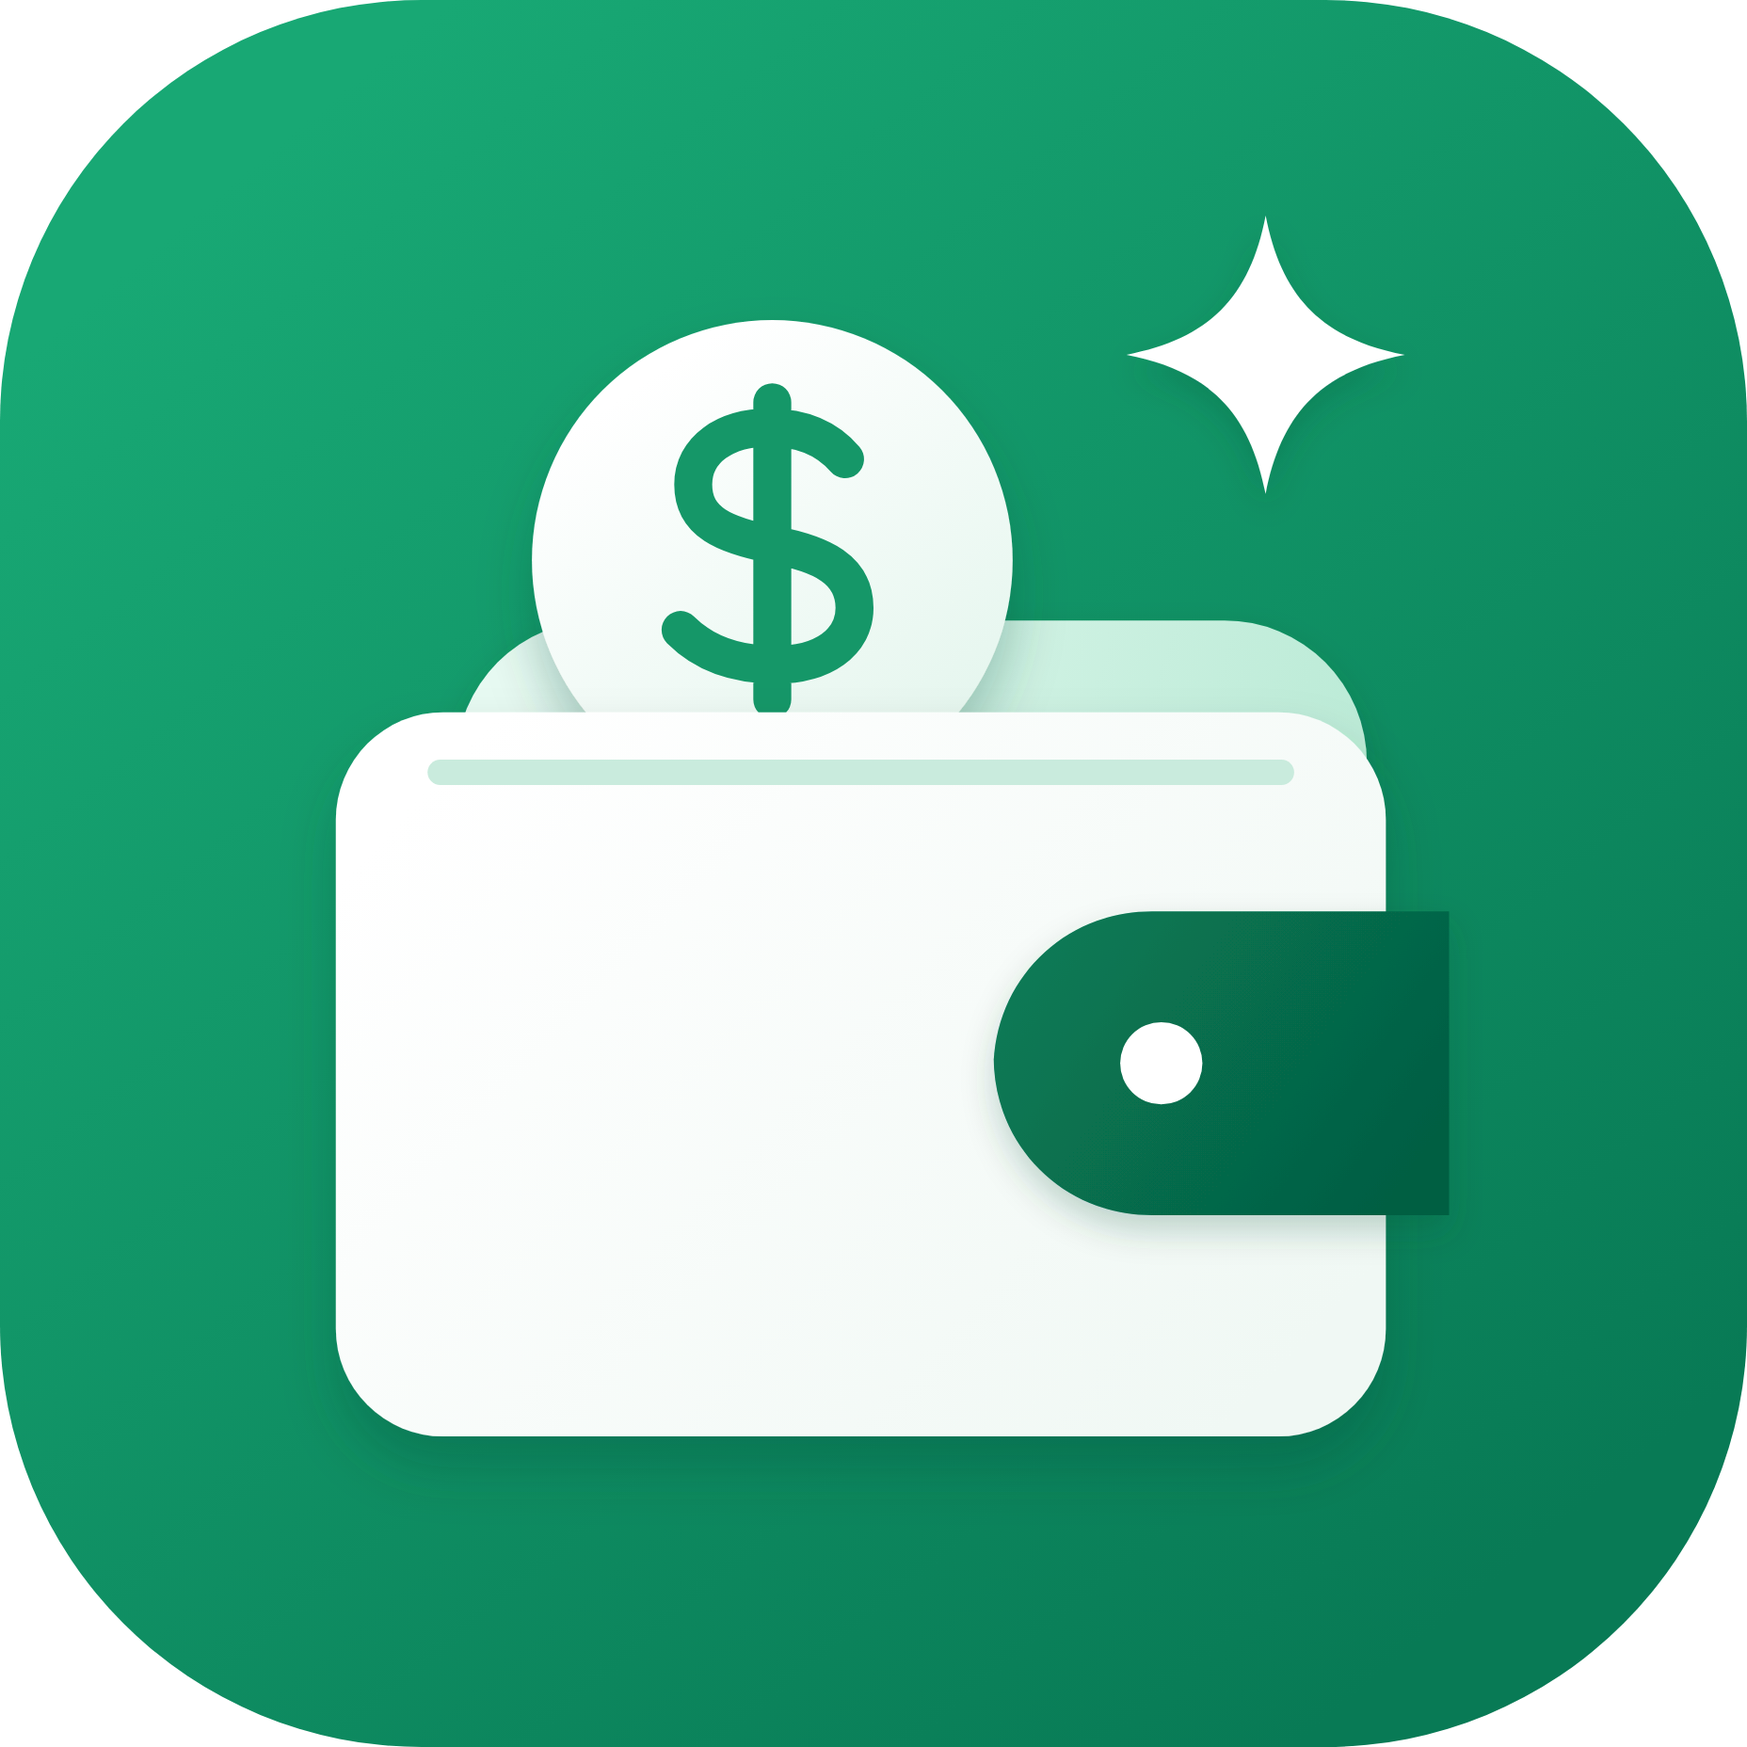
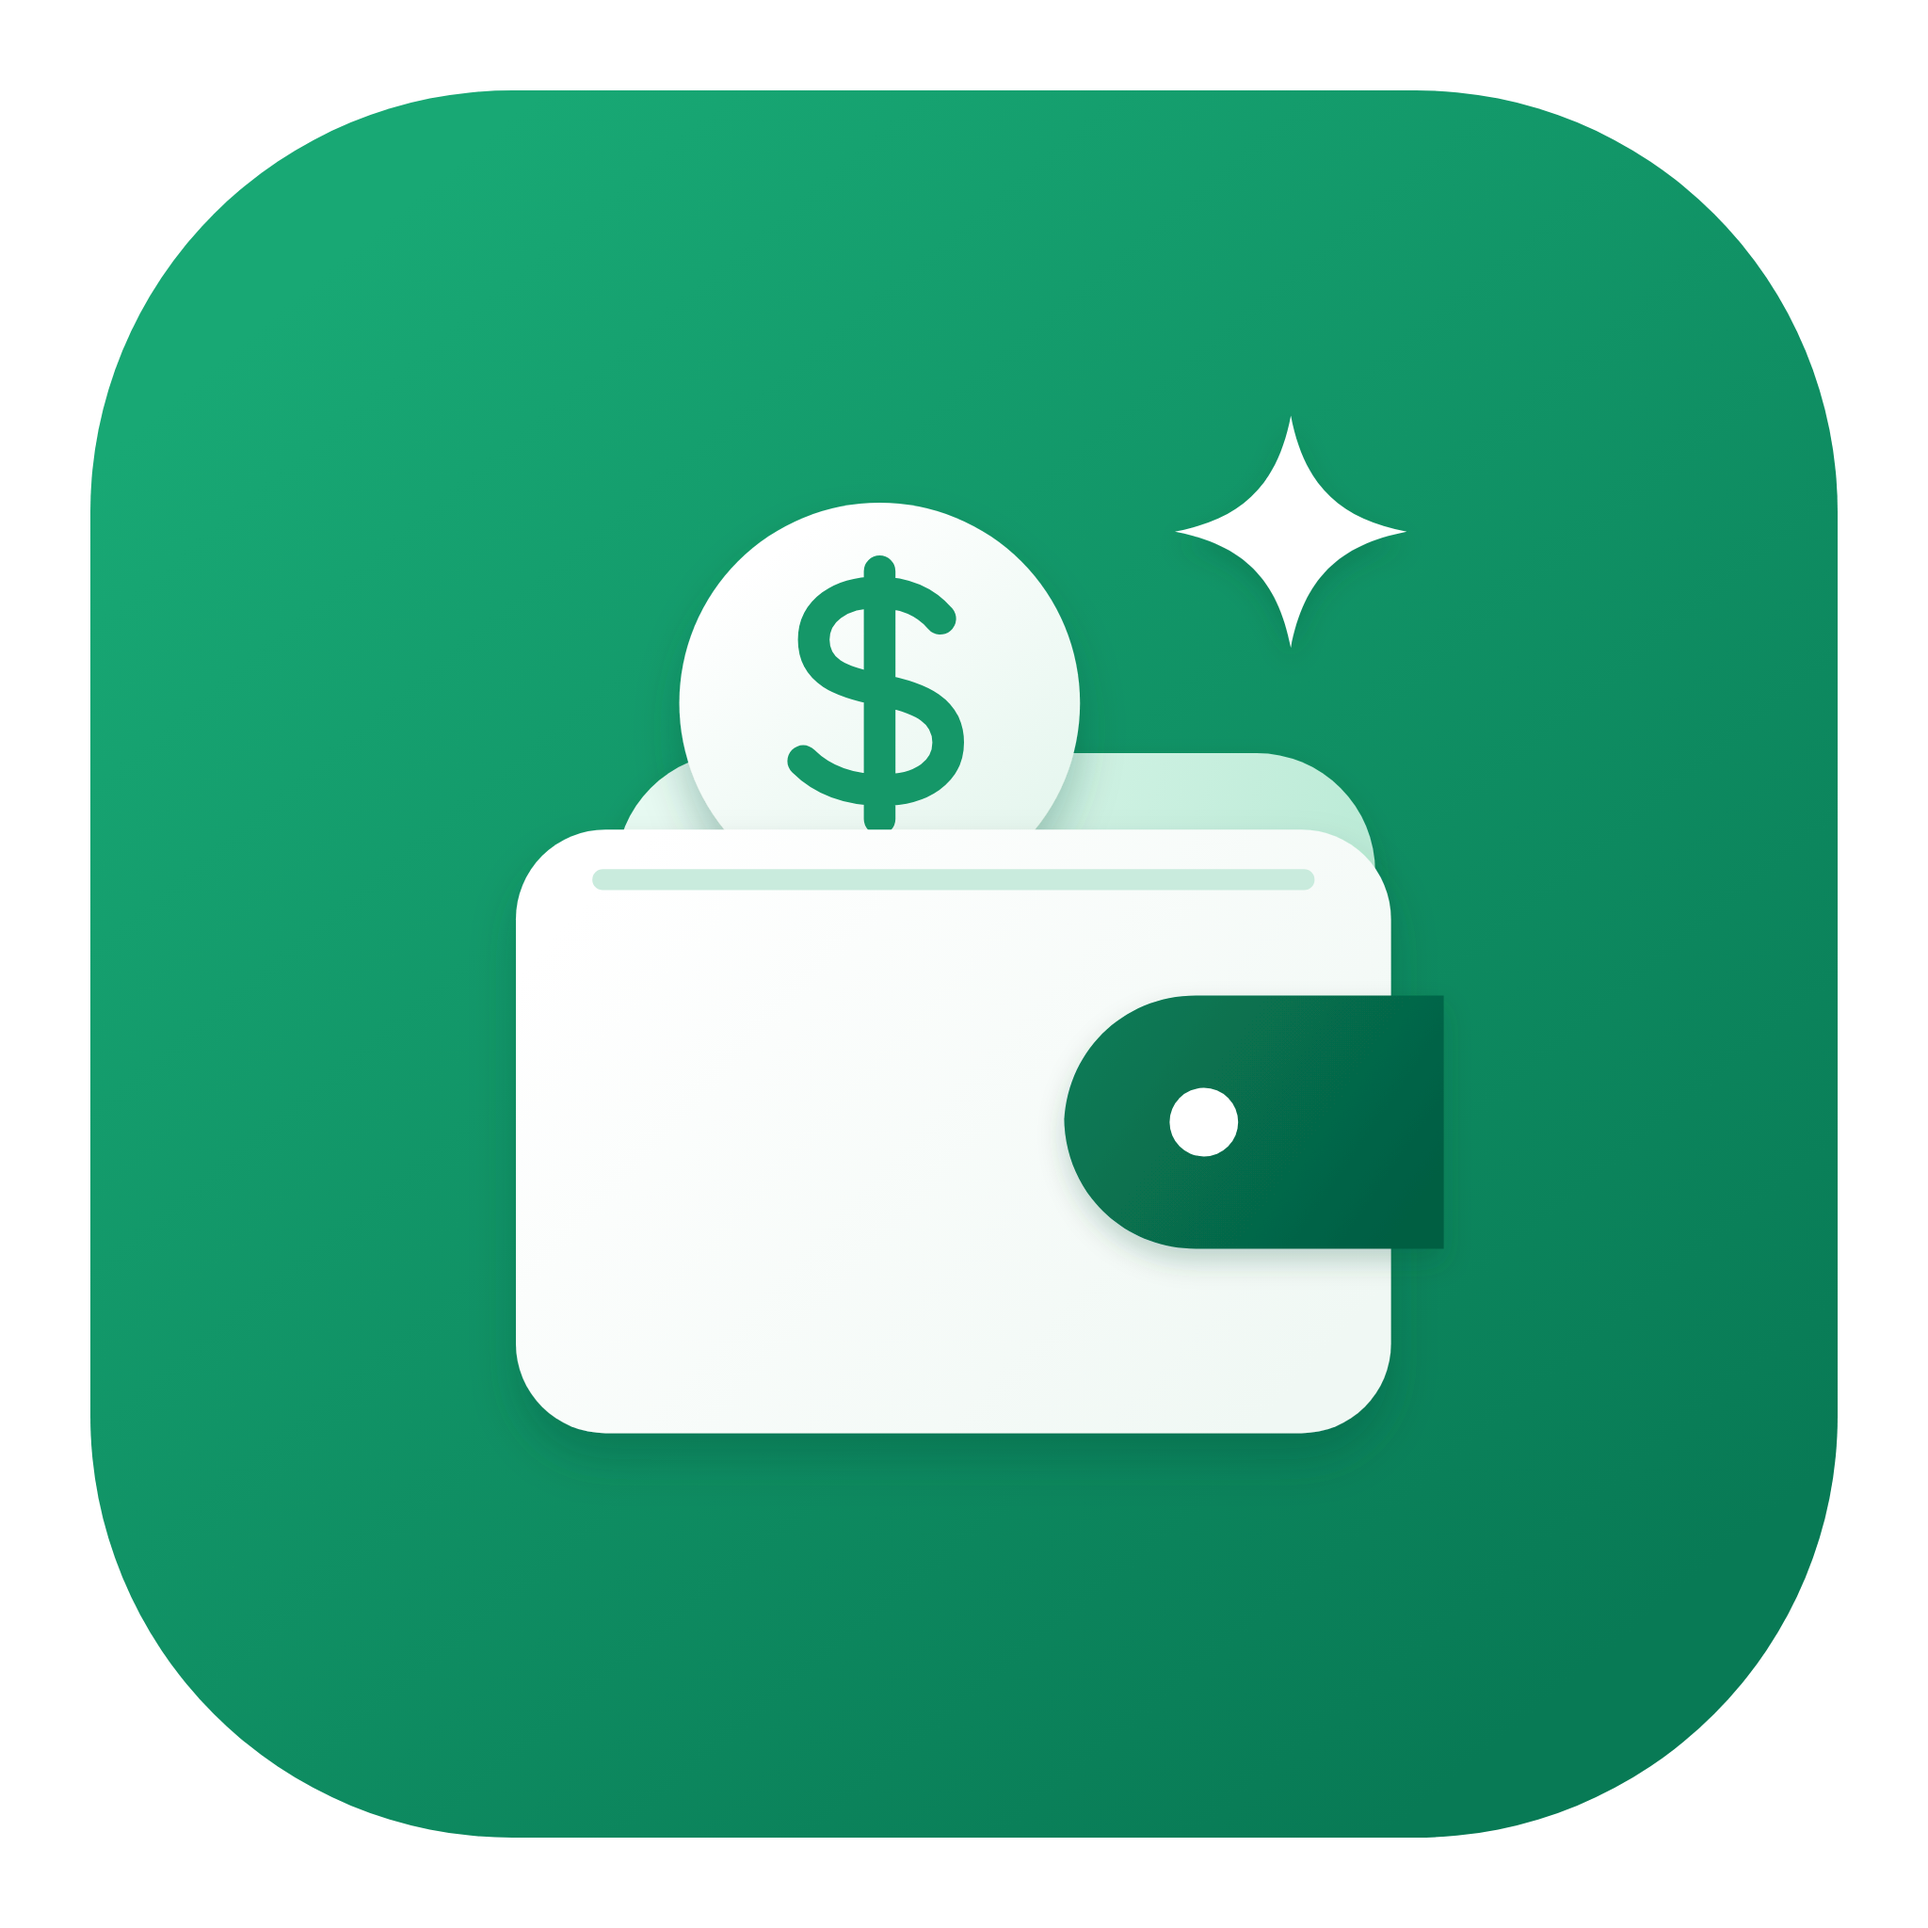
fix: keep launcher artwork within safe area

diff --git a/assets/branding/README.md b/assets/branding/README.md
@@ -4,3 +4,5 @@
 - `smartbudget-icon.png`: 고해상도 래스터 원본.
 
 Android 런처 아이콘은 이 원본을 바탕으로 `app/src/main/res` 아래에 구성한다. 일반 아이콘과 원형 아이콘은 화면 밀도별 PNG로 제공하고, adaptive icon은 배경·전경·단색 레이어를 분리해 시스템 마스크와 테마 아이콘을 지원한다.
+
+핵심 콘텐츠는 Android adaptive icon 안전 영역 안에서 원형·스쿼클 마스크에 잘리지 않도록 원본 캔버스의 70% 크기로 배치한다. 화면 밀도별 PNG는 고해상도 벡터 렌더링 결과를 안티앨리어싱이 적용된 고품질 보간으로 축소해 생성한다.
